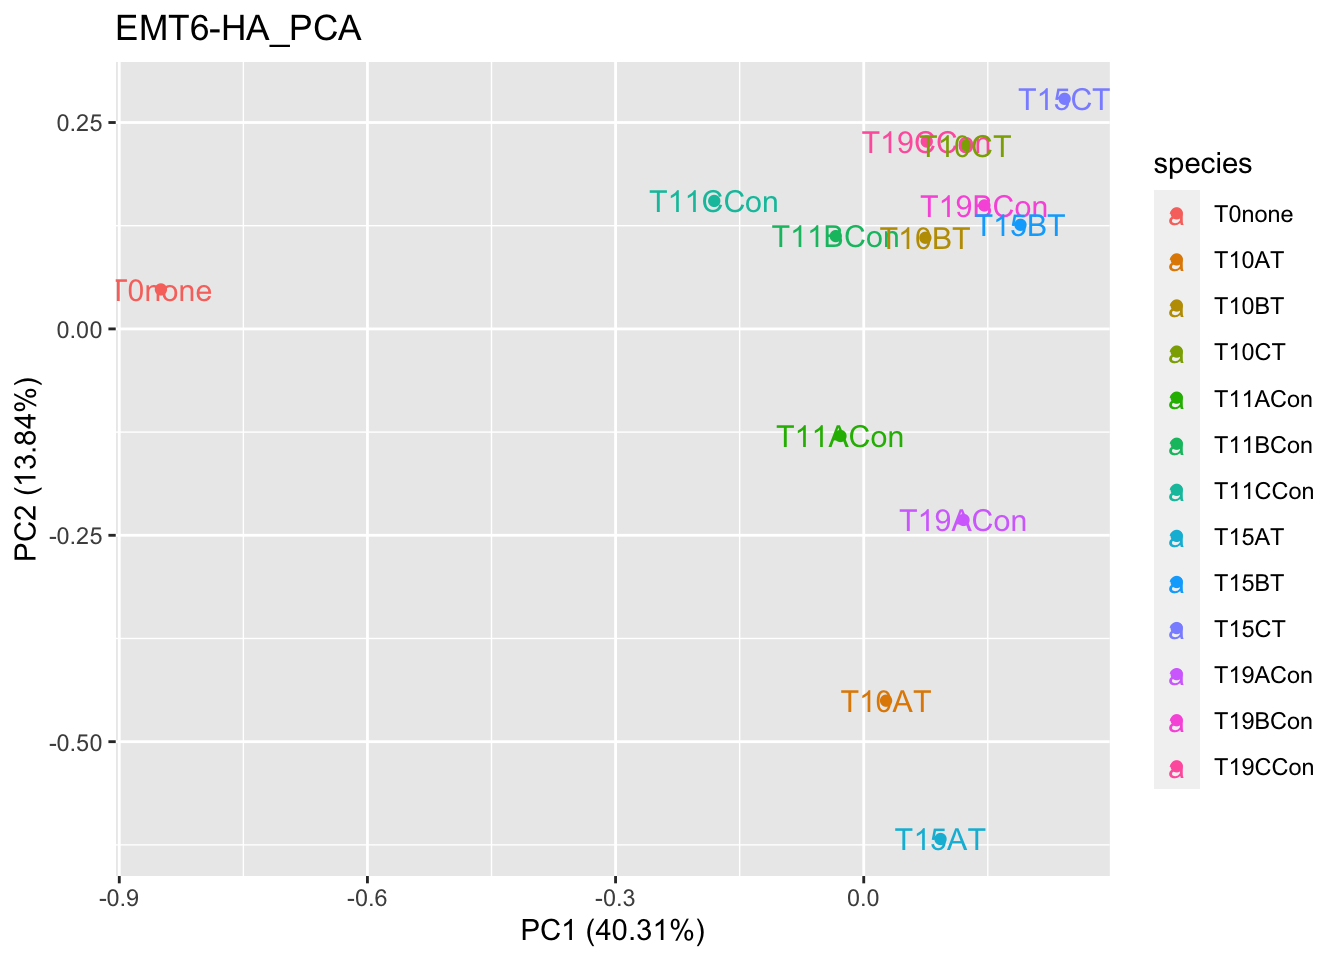
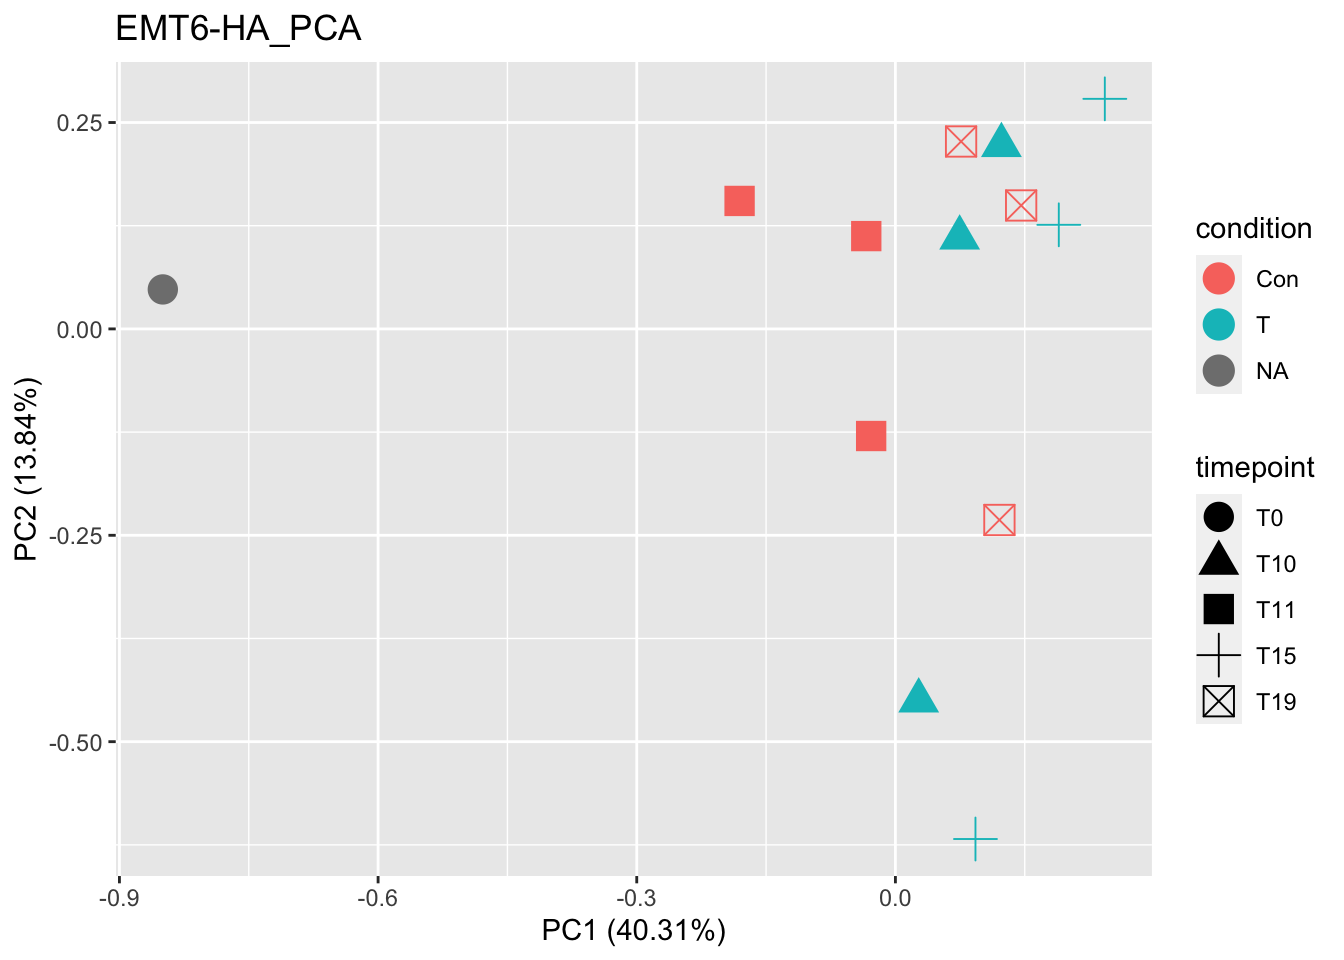
pca_wo_T0

diff --git a/docs/32968282_JasonMoffat_Nature_2020.html b/docs/32968282_JasonMoffat_Nature_2020.html
@@ -434,16 +434,16 @@ This reproducible <a href="http://rmarkdown.rstudio.com">R Markdown</a> analysis
 <div class="panel panel-default">
 <div class="panel-heading">
 <p class="panel-title">
-<a data-toggle="collapse" data-parent="#workflowr-checks" href="#strongRepositoryversionstrongahrefhttpsgithubcomBuilderPierunMAGeCKVISPRtreedeac382c1fbf7ad8ac5dfd6da6f803d4a670f6dctargetblankdeac382a"> <span class="glyphicon glyphicon-ok text-success" aria-hidden="true"></span> <strong>Repository version:</strong> <a href="https://github.com/BuilderPie/run_MAGeCK-VISPR/tree/deac382c1fbf7ad8ac5dfd6da6f803d4a670f6dc" target="_blank">deac382</a> </a>
+<a data-toggle="collapse" data-parent="#workflowr-checks" href="#strongRepositoryversionstrongahrefhttpsgithubcomBuilderPierunMAGeCKVISPRtree1f43d785fa1c5ef9b6abdafdf40dc5b2b5509ff6targetblank1f43d78a"> <span class="glyphicon glyphicon-ok text-success" aria-hidden="true"></span> <strong>Repository version:</strong> <a href="https://github.com/BuilderPie/run_MAGeCK-VISPR/tree/1f43d785fa1c5ef9b6abdafdf40dc5b2b5509ff6" target="_blank">1f43d78</a> </a>
 </p>
 </div>
[2 lines of base64/hex data omitted]
 <div class="panel-body">
 <p>
 Great! You are using Git for version control. Tracking code development and connecting the code version to the results is critical for reproducibility.
 </p>
 <p>
-The results in this page were generated with repository version <a href="https://github.com/BuilderPie/run_MAGeCK-VISPR/tree/deac382c1fbf7ad8ac5dfd6da6f803d4a670f6dc" target="_blank">deac382</a>. See the <em>Past versions</em> tab to see a history of the changes made to the R Markdown and HTML files.
+The results in this page were generated with repository version <a href="https://github.com/BuilderPie/run_MAGeCK-VISPR/tree/1f43d785fa1c5ef9b6abdafdf40dc5b2b5509ff6" target="_blank">1f43d78</a>. See the <em>Past versions</em> tab to see a history of the changes made to the R Markdown and HTML files.
 </p>
 <p>
 Note that you need to be careful to ensure that all relevant files for the analysis have been committed to Git prior to generating the results (you can use <code>wflow_publish</code> or <code>wflow_git_commit</code>). workflowr only checks the R Markdown file, but you know if there are other scripts or data files that it depends on. Below is the status of the Git repository when the results were generated:
@@ -452,14 +452,14 @@ Note that you need to be careful to ensure that all relevant files for the analy
 Ignored files:
     Ignored:    .DS_Store
     Ignored:    .Rhistory
+    Ignored:    analysis/output/
     Ignored:    data/.DS_Store
     Ignored:    data/32968282_JasonMoffat_Nature_2020/.DS_Store
-
-Untracked files:
-    Untracked:  output/32968282_JasonMoffat_Nature_2020/
+    Ignored:    output/32968282_JasonMoffat_Nature_2020/.DS_Store
 
 Unstaged changes:
     Modified:   analysis/32968282_JasonMoffat_Nature_2020.Rmd
+    Modified:   output/32968282_JasonMoffat_Nature_2020/32968282_JasonMoffat_Nature_2020_rawcount.txt
 
 </code></pre>
 <p>
@@ -498,6 +498,40 @@ Message
 </tr>
 </thead>
 <tbody>
+<tr>
+<td>
+Rmd
+</td>
+<td>
+<a href="https://github.com/BuilderPie/run_MAGeCK-VISPR/blob/1f43d785fa1c5ef9b6abdafdf40dc5b2b5509ff6/analysis/32968282_JasonMoffat_Nature_2020.Rmd" target="_blank">1f43d78</a>
+</td>
+<td>
+BuilderPie
+</td>
+<td>
+2021-02-09
+</td>
+<td>
+test_commit
+</td>
+</tr>
+<tr>
+<td>
+html
+</td>
+<td>
+<a href="https://rawcdn.githack.com/BuilderPie/run_MAGeCK-VISPR/1f43d785fa1c5ef9b6abdafdf40dc5b2b5509ff6/docs/32968282_JasonMoffat_Nature_2020.html" target="_blank">1f43d78</a>
+</td>
+<td>
+BuilderPie
+</td>
+<td>
+2021-02-09
+</td>
+<td>
+test_commit
+</td>
+</tr>
 <tr>
 <td>
 html
@@ -663,12 +697,12 @@ BuilderPie
 <pre class="r"><code>library(GEOquery)
 library(ggfortify)
 gse = getGEO(filename=&quot;data/32968282_JasonMoffat_Nature_2020/GSE149933-GPL17021_series_matrix.txt.gz&quot;,GSEMatrix=TRUE,getGPL = FALSE)
-dir.create(&quot;output/32968282_JasonMoffat_Nature_2020&quot;, recursive = T)
+dir.create(&quot;output/32968282_JasonMoffat_Nature_2020&quot;, recursive = T, showWarnings = F)
 write.table(gse, &#39;output/32968282_JasonMoffat_Nature_2020/GPL17021.txt&#39;, quote = F, sep = &#39;\t&#39;, col.names = T)
 meta_GPL17021 = read.table(&#39;output/32968282_JasonMoffat_Nature_2020/GPL17021.txt&#39;, stringsAsFactors = F, sep = &#39;\t&#39;, row.names = 1)
 
 gse = getGEO(filename=&quot;data/32968282_JasonMoffat_Nature_2020/GSE149933-GPL19057_series_matrix.txt.gz&quot;,GSEMatrix=TRUE,getGPL = FALSE)
-dir.create(&quot;output/32968282_JasonMoffat_Nature_2020&quot;, recursive = T, showWarnings = F)
+# dir.create(&quot;output/32968282_JasonMoffat_Nature_2020&quot;, recursive = T, showWarnings = F)
 write.table(gse, &#39;output/32968282_JasonMoffat_Nature_2020/GPL19057.txt&#39;, quote = F, sep = &#39;\t&#39;, col.names = T)
 meta_GPL19057 = read.table(&#39;output/32968282_JasonMoffat_Nature_2020/GPL19057.txt&#39;, stringsAsFactors = F, sep = &#39;\t&#39;, row.names = 1)
 
@@ -746,18 +780,23 @@ cellline = c(&quot;EMT6-HA_&quot;, &quot;CT26-HA_&quot;, &quot;4T1-HA_&quot;, &q
 for (cl in cellline){
   # print(cl)
   df = as.data.frame(t(finalCount[, grep(cl, colnames(finalCount))]))
-  df$species = gsub(pattern = cl, replacement = &#39;&#39;, rownames(df))
-  df$species = gsub(pattern = &quot;_&quot;, replacement = &#39;&#39;, df$species)
-  rownames(df) = df$species
+  pca_res &lt;- prcomp(df)
+  df$condition = sapply(X = strsplit(rownames(df),&quot;_&quot;), FUN = function(x){x[4]})
+  df$timepoint = sapply(X = strsplit(rownames(df),&quot;_&quot;), FUN = function(x){x[2]})
   # df[ , which(apply(df, 2, var) != 0)]
   # pca_res &lt;- prcomp(df[,-dim(df)[2]], scale. = TRUE)
-  pca_res &lt;- prcomp(df[,-dim(df)[2]])
-  print(autoplot(pca_res, data = df, colour = &#39;species&#39;, label = TRUE, label.size = 4, 
+  # print(autoplot(pca_res, data = df, colour = &#39;species&#39;, label = TRUE, label.size = 4, 
                  # xlim = c((1.3*min(pca_res$rotation[,&#39;PC1&#39;],na.rm=T)-0.3*max(min(pca_res$rotation[,&#39;PC1&#39;],na.rm=T))),
                  #          (1.3*max(pca_res$rotation[,&#39;PC1&#39;],na.rm=T)-0.3*min(pca_res$rotation[,&#39;PC1&#39;],na.rm=T))), 
                  # ylim = c((1.3*min(pca_res$rotation[,&#39;PC2&#39;],na.rm=T)-0.3*max(min(pca_res$rotation[,&#39;PC2&#39;],na.rm=T))),
                  #          (1.3*max(pca_res$rotation[,&#39;PC2&#39;],na.rm=T)-0.3*min(pca_res$rotation[,&#39;PC2&#39;],na.rm=T))),
-                 main = paste0(cl, &quot;PCA&quot;)))
+                 # main = paste0(cl, &quot;PCA&quot;)))
+  
+  print(autoplot(pca_res, data = df, colour = &#39;condition&#39;, shape = &quot;timepoint&quot;, size = 5, main = paste0(cl, &quot;PCA&quot;)))
+  
+  df = df[-grep(&quot;_T0_&quot;, rownames(df)), ]
+  pca_res &lt;- prcomp(df[, -which(colnames(df)==&quot;condition&quot; | colnames(df)==&quot;timepoint&quot;)])
+  print(autoplot(pca_res, data = df, colour = &#39;condition&#39;, shape = &quot;timepoint&quot;, size = 5, main = paste0(cl, &quot;wo_T0&quot;)))
 }</code></pre>
 <p><img src="figure/32968282_JasonMoffat_Nature_2020.Rmd/unnamed-chunk-1-1.png" width="672" style="display: block; margin: auto;" /></p>
 <p>
@@ -782,6 +821,17 @@ Date
 </tr>
 </thead>
 <tbody>
+<tr>
+<td>
+<a href="https://github.com/BuilderPie/run_MAGeCK-VISPR/blob/1f43d785fa1c5ef9b6abdafdf40dc5b2b5509ff6/docs/figure/32968282_JasonMoffat_Nature_2020.Rmd/unnamed-chunk-1-1.png" target="_blank">1f43d78</a>
+</td>
+<td>
+BuilderPie
+</td>
+<td>
+2021-02-09
+</td>
+</tr>
 <tr>
 <td>
 <a href="https://github.com/BuilderPie/run_MAGeCK-VISPR/blob/deac382c1fbf7ad8ac5dfd6da6f803d4a670f6dc/docs/figure/32968282_JasonMoffat_Nature_2020.Rmd/unnamed-chunk-1-1.png" target="_blank">deac382</a>
@@ -833,6 +883,17 @@ Date
 <tbody>
 <tr>
 <td>
+<a href="https://github.com/BuilderPie/run_MAGeCK-VISPR/blob/1f43d785fa1c5ef9b6abdafdf40dc5b2b5509ff6/docs/figure/32968282_JasonMoffat_Nature_2020.Rmd/unnamed-chunk-1-2.png" target="_blank">1f43d78</a>
+</td>
+<td>
+BuilderPie
+</td>
+<td>
+2021-02-09
+</td>
+</tr>
+<tr>
+<td>
 <a href="https://github.com/BuilderPie/run_MAGeCK-VISPR/blob/deac382c1fbf7ad8ac5dfd6da6f803d4a670f6dc/docs/figure/32968282_JasonMoffat_Nature_2020.Rmd/unnamed-chunk-1-2.png" target="_blank">deac382</a>
 </td>
 <td>
@@ -880,6 +941,17 @@ Date
 </tr>
 </thead>
 <tbody>
+<tr>
+<td>
+<a href="https://github.com/BuilderPie/run_MAGeCK-VISPR/blob/1f43d785fa1c5ef9b6abdafdf40dc5b2b5509ff6/docs/figure/32968282_JasonMoffat_Nature_2020.Rmd/unnamed-chunk-1-3.png" target="_blank">1f43d78</a>
+</td>
+<td>
+BuilderPie
+</td>
+<td>
+2021-02-09
+</td>
+</tr>
 <tr>
 <td>
 <a href="https://github.com/BuilderPie/run_MAGeCK-VISPR/blob/deac382c1fbf7ad8ac5dfd6da6f803d4a670f6dc/docs/figure/32968282_JasonMoffat_Nature_2020.Rmd/unnamed-chunk-1-3.png" target="_blank">deac382</a>
@@ -931,6 +1003,17 @@ Date
 <tbody>
 <tr>
 <td>
+<a href="https://github.com/BuilderPie/run_MAGeCK-VISPR/blob/1f43d785fa1c5ef9b6abdafdf40dc5b2b5509ff6/docs/figure/32968282_JasonMoffat_Nature_2020.Rmd/unnamed-chunk-1-4.png" target="_blank">1f43d78</a>
+</td>
+<td>
+BuilderPie
+</td>
+<td>
+2021-02-09
+</td>
+</tr>
+<tr>
+<td>
 <a href="https://github.com/BuilderPie/run_MAGeCK-VISPR/blob/deac382c1fbf7ad8ac5dfd6da6f803d4a670f6dc/docs/figure/32968282_JasonMoffat_Nature_2020.Rmd/unnamed-chunk-1-4.png" target="_blank">deac382</a>
 </td>
 <td>
@@ -978,6 +1061,17 @@ Date
 </tr>
 </thead>
 <tbody>
+<tr>
+<td>
+<a href="https://github.com/BuilderPie/run_MAGeCK-VISPR/blob/1f43d785fa1c5ef9b6abdafdf40dc5b2b5509ff6/docs/figure/32968282_JasonMoffat_Nature_2020.Rmd/unnamed-chunk-1-5.png" target="_blank">1f43d78</a>
+</td>
+<td>
+BuilderPie
+</td>
+<td>
+2021-02-09
+</td>
+</tr>
 <tr>
 <td>
 <a href="https://github.com/BuilderPie/run_MAGeCK-VISPR/blob/deac382c1fbf7ad8ac5dfd6da6f803d4a670f6dc/docs/figure/32968282_JasonMoffat_Nature_2020.Rmd/unnamed-chunk-1-5.png" target="_blank">deac382</a>
@@ -1029,6 +1123,17 @@ Date
 <tbody>
 <tr>
 <td>
+<a href="https://github.com/BuilderPie/run_MAGeCK-VISPR/blob/1f43d785fa1c5ef9b6abdafdf40dc5b2b5509ff6/docs/figure/32968282_JasonMoffat_Nature_2020.Rmd/unnamed-chunk-1-6.png" target="_blank">1f43d78</a>
+</td>
+<td>
+BuilderPie
+</td>
+<td>
+2021-02-09
+</td>
+</tr>
+<tr>
+<td>
 <a href="https://github.com/BuilderPie/run_MAGeCK-VISPR/blob/deac382c1fbf7ad8ac5dfd6da6f803d4a670f6dc/docs/figure/32968282_JasonMoffat_Nature_2020.Rmd/unnamed-chunk-1-6.png" target="_blank">deac382</a>
 </td>
 <td>
@@ -1053,6 +1158,7 @@ BuilderPie
 </table>
 </div>
 </div>
+<p><img src="figure/32968282_JasonMoffat_Nature_2020.Rmd/unnamed-chunk-1-7.png" width="672" style="display: block; margin: auto;" /><img src="figure/32968282_JasonMoffat_Nature_2020.Rmd/unnamed-chunk-1-8.png" width="672" style="display: block; margin: auto;" /><img src="figure/32968282_JasonMoffat_Nature_2020.Rmd/unnamed-chunk-1-9.png" width="672" style="display: block; margin: auto;" /><img src="figure/32968282_JasonMoffat_Nature_2020.Rmd/unnamed-chunk-1-10.png" width="672" style="display: block; margin: auto;" /><img src="figure/32968282_JasonMoffat_Nature_2020.Rmd/unnamed-chunk-1-11.png" width="672" style="display: block; margin: auto;" /><img src="figure/32968282_JasonMoffat_Nature_2020.Rmd/unnamed-chunk-1-12.png" width="672" style="display: block; margin: auto;" /></p>
 <br>
 <p>
 <button type="button" class="btn btn-default btn-workflowr btn-workflowr-sessioninfo" data-toggle="collapse" data-target="#workflowr-sessioninfo" style="display: block;">
